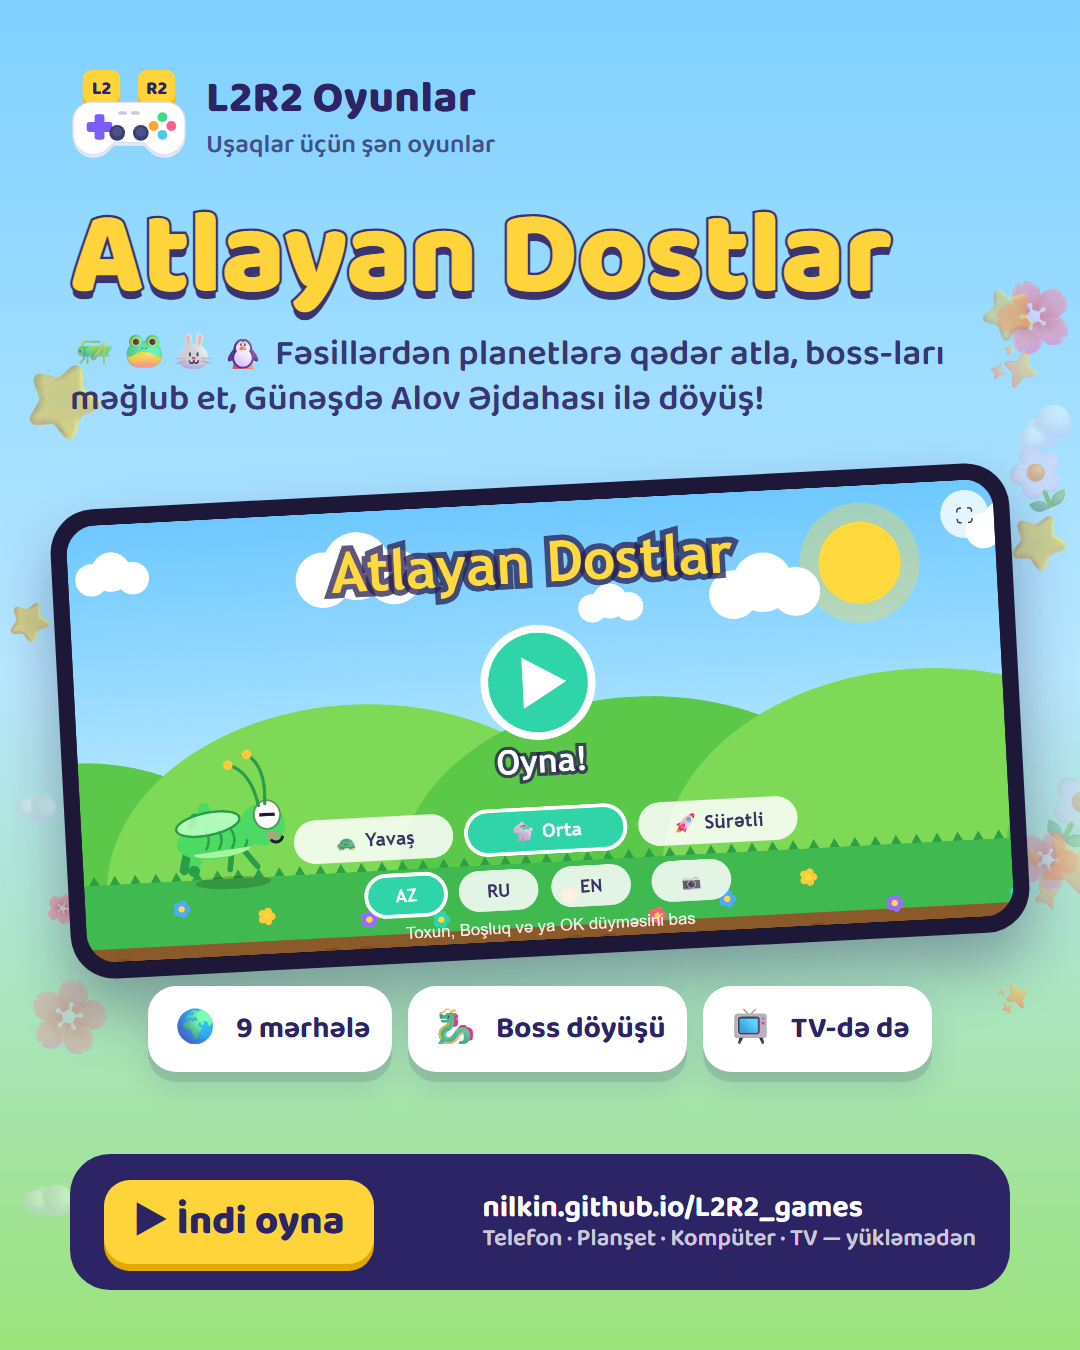
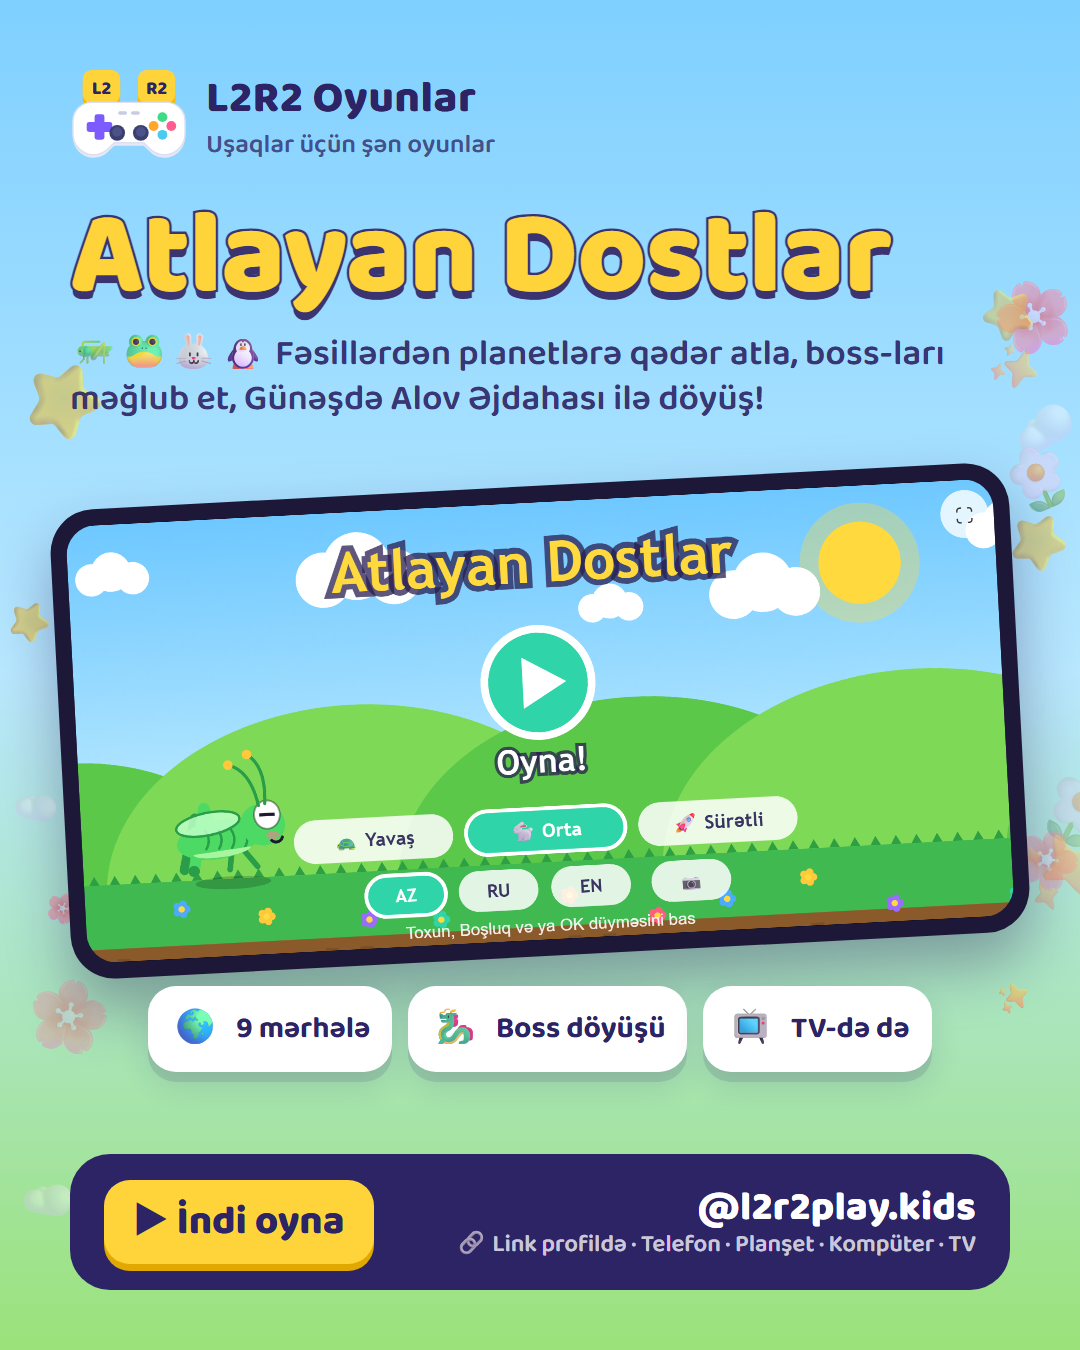
Ideas via Instagram + posters show @l2r2play.kids
- Idea form: "Instagram-a yaz" button copies the idea text and opens
  the @l2r2play.kids DM (ig.me); AZ/RU/EN; logs channel in idea_sent
- Footer: Instagram link
- Instagram posters: profile handle instead of site link
- README: document Instagram idea channel

Changed region(s): [[0.4278, 0.8711, 0.9167, 0.9333]]

diff --git a/index.html b/index.html
@@ -18,6 +18,7 @@
   const WHATSAPP_NUMBER = "994104144212";         // məs: "994501234567"
   const FORM_ENDPOINT = "";            // məs: "https://formspree.io/f/abcdwxyz"
   const GITHUB_REPO   = "nilkin/L2R2_games";
+  const INSTAGRAM_USER = "l2r2play.kids";   // "Instagram-a yaz" düyməsi bu profilin DM-ini açır (boşdursa düymə gizlənir)
 </script>
 <style>
   :root{
@@ -176,6 +177,11 @@
   .send:disabled{opacity:.6;cursor:wait}
   .send.wa{background:#25d366;box-shadow:0 6px 0 #1a9e4b}
   .send.wa:active{box-shadow:0 2px 0 #1a9e4b}
+  .send-row{display:grid;grid-template-columns:1fr 1fr;gap:12px}
+  @media (max-width:560px){.send-row{grid-template-columns:1fr}}
+  @media (min-width:561px){.send-row .send{font-size:19px;padding:12px 8px;white-space:nowrap}}
+  .send.ig{background:linear-gradient(45deg,#f9a73e 0%,#e1306c 50%,#833ab4 100%);box-shadow:0 6px 0 #8a2b6e}
+  .send.ig:active{box-shadow:0 2px 0 #8a2b6e}
   .hp{position:absolute;left:-9999px}
   .msg{border-radius:14px;padding:12px 14px;font-weight:700;display:none}
   .msg.ok{display:block;background:#d9f7e6;color:#16663a}
@@ -431,7 +437,10 @@
         <input name="contact" maxlength="120" autocomplete="email">
       </label>
       <input class="hp" name="_gotcha" tabindex="-1" autocomplete="off" aria-hidden="true">
-      <button class="send" type="submit" data-t="send">Göndər 🚀</button>
+      <div class="send-row">
+        <button class="send" type="submit" data-t="send">Göndər 🚀</button>
+        <button class="send ig" type="button" id="igSend" data-t="sendIg">📸 Instagram-a yaz</button>
+      </div>
       <div class="msg" id="msg" role="status"></div>
     </form>
   </div></section>
@@ -439,7 +448,7 @@
   <footer>
     <div class="pals" aria-hidden="true">🐸🐰🐧🦗</div>
     <p data-t="footer">Uşaqlar üçün brauzer oyunları.</p>
-    <p>© <span id="yr"></span> L2R2 · <a href="https://github.com/nilkin">GitHub</a></p>
+    <p>© <span id="yr"></span> L2R2 · <a href="https://www.instagram.com/l2r2play.kids/" target="_blank" rel="noopener">📸 Instagram</a> · <a href="https://github.com/nilkin">GitHub</a></p>
   </footer>
 </div>
 
@@ -456,7 +465,7 @@ const T = {
     fIdea:"Oyun ideyası *",fIdeaPh:"Məs: Pişik ulduzları toplayır və hər ulduzda bir rəqəm öyrənir...",
     chip1:"🔢 Rəqəmlər",chip2:"🎨 Rənglər",chip3:"🐾 Heyvanlar",chip4:"🚀 Kosmos",chip5:"🧩 Tapmaca",
     fAge:"Uşağın yaşı",fName:"Adınız",fContact:"Əlaqə",fContactHint:"E-poçt və ya telefon — oyun hazır olanda xəbər verək (istəyə bağlı)",
-    send:"Göndər 🚀",sendWa:"💬 WhatsApp-a göndər",sending:"Göndərilir...",ok:"Təşəkkür edirik! İdeyanız bizə çatdı 🎉",err:"Göndərmək alınmadı. Bir az sonra yenidən cəhd edin.",
+    send:"Göndər 🚀",sendWa:"💬 WhatsApp-a göndər",sendIg:"📸 Instagram-a yaz",igOk:"Mətn kopyalandı ✅ Instagram açıldı — mesaj qutusunda barmağınızı saxlayıb «Yapışdır» seçin və göndərin 📲",igNoCopy:"Instagram açıldı — ideyanızı mesajda yazıb göndərin 📲",sending:"Göndərilir...",ok:"Təşəkkür edirik! İdeyanız bizə çatdı 🎉",err:"Göndərmək alınmadı. Bir az sonra yenidən cəhd edin.",
     empty:"Zəhmət olmasa ideyanı yazın ✏",gh:"İdeyanı tamamlamaq üçün GitHub səhifəsi açıldı.",footer:"Uşaqlar üçün brauzer oyunları."},
   ru:{brand:"Игры",ctaPlay:"🎮 К играм",ctaIdea:"💡 Предложить идею",dev1:"📱 Телефон",dev4:"Планшет",dev2:"💻 Компьютер",dev3:"📺 ТВ",heroTitle:'Весёлые <span>игры для детей</span>',heroSub:"Ничего не нужно скачивать — играйте в браузере на телефоне, планшете, компьютере и ТВ.",
     gamesTitle:"🎮 Наши игры",play:"▶ Играть",
@@ -469,7 +478,7 @@ const T = {
     fIdea:"Идея игры *",fIdeaPh:"Напр.: котёнок собирает звёзды и с каждой звездой учит новую цифру...",
     chip1:"🔢 Цифры",chip2:"🎨 Цвета",chip3:"🐾 Животные",chip4:"🚀 Космос",chip5:"🧩 Головоломка",
     fAge:"Возраст ребёнка",fName:"Ваше имя",fContact:"Контакт",fContactHint:"E-mail или телефон — сообщим, когда игра будет готова (необязательно)",
-    send:"Отправить 🚀",sendWa:"💬 Отправить в WhatsApp",sending:"Отправляем...",ok:"Спасибо! Ваша идея получена 🎉",err:"Не удалось отправить. Попробуйте чуть позже.",
+    send:"Отправить 🚀",sendWa:"💬 Отправить в WhatsApp",sendIg:"📸 Написать в Instagram",igOk:"Текст скопирован ✅ Instagram открыт — зажмите поле сообщения, выберите «Вставить» и отправьте 📲",igNoCopy:"Instagram открыт — напишите идею в сообщении и отправьте 📲",sending:"Отправляем...",ok:"Спасибо! Ваша идея получена 🎉",err:"Не удалось отправить. Попробуйте чуть позже.",
     empty:"Пожалуйста, опишите идею ✏",gh:"Открыта страница GitHub, чтобы завершить отправку.",footer:"Браузерные игры для детей."},
   en:{brand:"Games",ctaPlay:"🎮 See the games",ctaIdea:"💡 Send an idea",dev1:"📱 Phone",dev4:"Tablet",dev2:"💻 Computer",dev3:"📺 TV",heroTitle:'Fun <span>games for kids</span>',heroSub:"Nothing to install — play in the browser on phone, tablet, computer or TV.",
     gamesTitle:"🎮 Our games",play:"▶ Play",
@@ -482,7 +491,7 @@ const T = {
     fIdea:"Game idea *",fIdeaPh:"E.g.: a kitten collects stars and learns a new number with each one...",
     chip1:"🔢 Numbers",chip2:"🎨 Colors",chip3:"🐾 Animals",chip4:"🚀 Space",chip5:"🧩 Puzzle",
     fAge:"Child's age",fName:"Your name",fContact:"Contact",fContactHint:"Email or phone — so we can tell you when it's ready (optional)",
-    send:"Send 🚀",sendWa:"💬 Send via WhatsApp",sending:"Sending...",ok:"Thank you! We got your idea 🎉",err:"Couldn't send. Please try again a bit later.",
+    send:"Send 🚀",sendWa:"💬 Send via WhatsApp",sendIg:"📸 Message on Instagram",igOk:"Text copied ✅ Instagram opened — long-press the message box, tap Paste and send 📲",igNoCopy:"Instagram opened — type your idea in the message and send 📲",sending:"Sending...",ok:"Thank you! We got your idea 🎉",err:"Couldn't send. Please try again a bit later.",
     empty:"Please describe your idea ✏",gh:"A GitHub page opened to finish sending your idea.",footer:"Browser games for kids."}
 };
 let lang = "az";
@@ -492,6 +501,7 @@ function applyLang(l){
   document.querySelectorAll("[data-t]").forEach(el=>{ const v=T[l][el.dataset.t]; if(v!=null) el.innerHTML=v; });
   document.querySelectorAll("[data-tp]").forEach(el=>{ el.placeholder=T[l][el.dataset.tp]; });
   if(WHATSAPP_NUMBER){ const s=document.querySelector(".send"); s.classList.add("wa"); s.innerHTML=T[l].sendWa; }
+  if(!INSTAGRAM_USER){ document.getElementById("igSend").style.display="none"; document.querySelector(".send-row").style.gridTemplateColumns="1fr"; }
   document.querySelectorAll(".langs button").forEach(b=>b.classList.toggle("on",b.dataset.lang===l));
   try{ localStorage.setItem("l2r2-lang",l); }catch(e){}
 }
@@ -508,16 +518,17 @@ document.querySelectorAll(".chips button").forEach(b=>b.onclick=()=>{
 
 const form = document.getElementById("ideaForm"), msg = document.getElementById("msg");
 function show(cls,text){ msg.className="msg "+cls; msg.textContent=text; }
+const ideaText = d => `💡 Yeni oyun ideyası\n\n${d.idea.trim()}\n\n👶 Yaş: ${d.age||"-"}\n🙂 Ad: ${d.name||"-"}\n📞 Əlaqə: ${d.contact||"-"}\n🌐 Dil: ${lang}`;
 form.addEventListener("submit", async e=>{
   e.preventDefault();
   const d = Object.fromEntries(new FormData(form));
   if(d._gotcha) return;
   if(!d.idea.trim()){ show("err",T[lang].empty); ta.focus(); return; }
   const btn = form.querySelector(".send");
-  window.L2R2Log&&L2R2Log.event("idea_sent", d.age ? "Yaş: "+d.age : "");
+  window.L2R2Log&&L2R2Log.event("idea_sent", (WHATSAPP_NUMBER?"WhatsApp":FORM_ENDPOINT?"Form":"GitHub") + (d.age ? ", yaş: "+d.age : ""));
 
   if(WHATSAPP_NUMBER){
-    const text = `💡 Yeni oyun ideyası\n\n${d.idea.trim()}\n\n👶 Yaş: ${d.age||"-"}\n🙂 Ad: ${d.name||"-"}\n📞 Əlaqə: ${d.contact||"-"}\n🌐 Dil: ${lang}`;
+    const text = ideaText(d);
     window.open(`https://wa.me/${WHATSAPP_NUMBER.replace(/\D/g,"")}?text=${encodeURIComponent(text)}`,"_blank","noopener");
     show("ok",{az:"WhatsApp açıldı — mesajı göndərməyi unutmayın 📲",ru:"Открылся WhatsApp — не забудьте отправить сообщение 📲",en:"WhatsApp opened — don't forget to tap send 📲"}[lang]);
     return;
@@ -538,6 +549,22 @@ form.addEventListener("submit", async e=>{
     form.reset(); show("ok",T[lang].ok);
   }catch(err){ show("err",T[lang].err); }
   finally{ btn.disabled=false; btn.textContent=T[lang].send; }
+});
+
+// Instagram: DM-ə hazır mətn ötürmək mümkün deyil, ona görə mətni kopyalayıb DM-i açırıq
+function copyText(t){
+  try{ if(navigator.clipboard && window.isSecureContext){ navigator.clipboard.writeText(t); return true; } }catch(e){}
+  try{ const x=document.createElement("textarea"); x.value=t; x.setAttribute("readonly",""); x.style.position="fixed"; x.style.opacity="0";
+       document.body.appendChild(x); x.select(); x.setSelectionRange(0,t.length); const ok=document.execCommand("copy"); x.remove(); return ok; }catch(e){ return false; }
+}
+document.getElementById("igSend").addEventListener("click", ()=>{
+  const d = Object.fromEntries(new FormData(form));
+  if(d._gotcha) return;
+  if(!d.idea.trim()){ show("err",T[lang].empty); ta.focus(); return; }
+  const copied = copyText(ideaText(d));
+  window.open("https://ig.me/m/"+INSTAGRAM_USER, "_blank", "noopener");
+  show("ok", copied ? T[lang].igOk : T[lang].igNoCopy);
+  window.L2R2Log&&L2R2Log.event("idea_sent", "Instagram" + (d.age ? ", yaş: "+d.age : ""));
 });
 </script>
 </body>

diff --git a/README.md b/README.md
@@ -33,5 +33,9 @@ logserver/          ← server (Google Apps Script → Google Sheets) və quraş
 ziyarətçi sadəcə göndər düyməsini basır. Nömrə `index.html`-in başındakı `WHATSAPP_NUMBER`-dədir.
 `WHATSAPP_NUMBER` boşdursa `FORM_ENDPOINT` (məs. [Formspree](https://formspree.io)), o da boşdursa GitHub Issue istifadə olunur.
 
+İdeyalar **Instagram**-a da gəlir ([@l2r2play.kids](https://www.instagram.com/l2r2play.kids/)): "Instagram-a yaz" basılanda ideya mətni
+kopyalanır və profilin DM-i açılır (`ig.me/m/…`). Instagram linkə hazır mətn qoymağa icazə vermir, ona görə ziyarətçi mətni yapışdırıb göndərir.
+Profil `INSTAGRAM_USER`-dədir; boş qoyulsa düymə gizlənir. Hər iki kanal loglarda `idea_sent` hadisəsi kimi görünür (detalda kanal adı).
+
 ## Tarixçə
 `alfa_be` və `jumping-friends` əvvəllər ayrı repolar idi; `git subtree` ilə bütün commit tarixçəsi ilə birləşdirilib.
